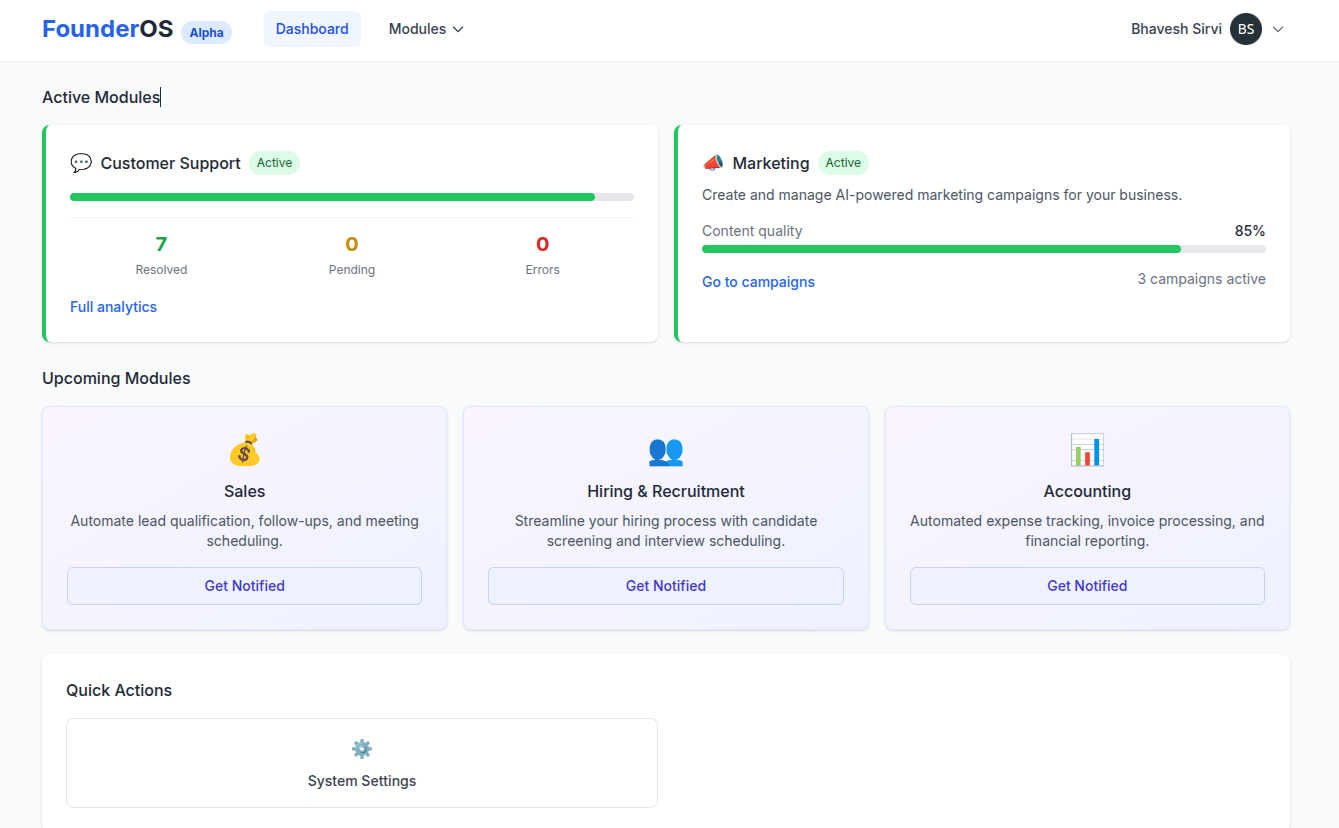
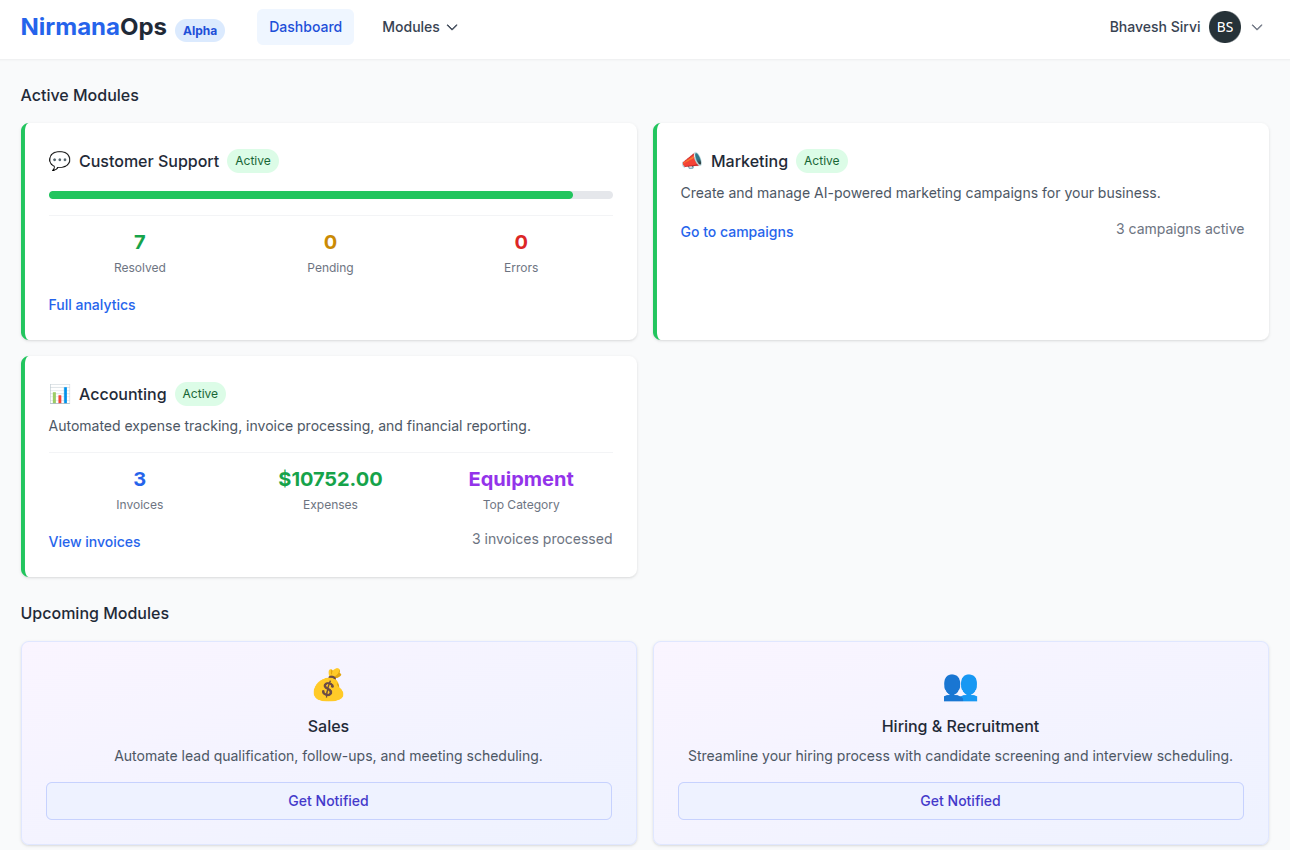
Changed the name to NirmanaOS

diff --git a/index.html b/index.html
@@ -3,7 +3,7 @@
 <head>
     <meta charset="UTF-8">
     <meta name="viewport" content="width=device-width, initial-scale=1.0">
-    <title>FounderOS</title>
+    <title>NirmanaOps</title>
     <script src="https://cdn.tailwindcss.com"></script>
     <link href="https://cdnjs.cloudflare.com/ajax/libs/font-awesome/6.0.0-beta3/css/all.min.css" rel="stylesheet">
     <style>
@@ -78,7 +78,7 @@
         <div class="max-w-7xl mx-auto px-4 sm:px-6 lg:px-8">
             <div class="flex justify-between h-16">
                 <div class="flex items-center space-x-4">
-                    <div class="text-2xl font-bold text-blue-600">FounderOS</div>
+                    <div class="text-2xl font-bold text-blue-600">NirmanaOps</div>
                     <span class="bg-blue-100 text-blue-800 px-2 py-1 rounded-md text-sm">Alpha</span>
                 </div>
                 <div class="hidden md:flex items-center space-x-8">
@@ -107,19 +107,19 @@
         </span>
         </h1>
         <p class="mt-6 text-xl text-white opacity-90 max-w-3xl mx-auto font-normal">
-        FounderOS provides a complete operations solution for your business, handling everything from customer inquiries to sales follow-ups, with implementation in under 30 minutes.
+        NirmanaOps provides a complete operations solution for your business, handling everything from customer inquiries to sales follow-ups, with implementation in under 30 minutes.
         </p>
         <div class="mt-16">
         <img src="image2.png" alt="Operations Platform Dashboard" class="rounded-lg shadow-2xl mx-auto"/>
         </div>
     </div>
     </div>
-    <!-- What is FounderOS Section -->
+    <!-- What is NirmanaOps Section -->
     <div class="bg-gray-50 py-20">
         <div class="max-w-7xl mx-auto px-4 sm:px-6 lg:px-8 text-center">
-            <h2 class="text-3xl font-semibold text-gray-900 mb-6">What is FounderOS?</h2>
+            <h2 class="text-3xl font-semibold text-gray-900 mb-6">What is NirmanaOps?</h2>
             <p class="text-base text-gray-700 max-w-3xl mx-auto">
-                Consider FounderOS as the operations team you wish you could afford. We handle your support tickets, follow up with leads, nurture customers, and manage your CRM — without you needing to hire a single person or become a tools expert. It functions as an entire operations department that works 24/7, never takes vacations, and costs a fraction of hiring.
+                Consider NirmanaOps as the operations team you wish you could afford. We handle your support tickets, follow up with leads, nurture customers, and manage your CRM — without you needing to hire a single person or become a tools expert. It functions as an entire operations department that works 24/7, never takes vacations, and costs a fraction of hiring.
             </p>
         </div>
     </div>
@@ -141,6 +141,22 @@
                     </div>
                     <p class="text-base text-gray-600 mb-4">
                         Handle customer inquiries efficiently with automated responses, ticket tracking, and seamless escalation processes.
+                    </p>
+                    <div class="flex items-center text-sm text-green-600">
+                        <i class="fas fa-check-circle mr-1" style="width: 18px; height: 18px;"></i>
+                        <span>Available Now</span>
+                    </div>
+                </div>
+                <!-- Accounting Module -->
+                <div class="bg-white p-6 rounded-lg shadow-md border border-gray-100">
+                    <div class="flex items-center mb-4">
+                        <div class="mr-3 text-gray-700">
+                            <i class="fas fa-chart-bar text-2xl" style="width: 24px; height: 24px;"></i>
+                        </div>
+                        <h3 class="text-xl font-medium">Accounting</h3>
+                    </div>
+                    <p class="text-base text-gray-600 mb-4">
+                        Automated expense tracking, invoice processing, and financial reporting for your business.
                     </p>
                     <div class="flex items-center text-sm text-green-600">
                         <i class="fas fa-check-circle mr-1" style="width: 18px; height: 18px;"></i>
@@ -192,23 +208,6 @@
                     </div>
                     <p class="text-base text-gray-600 mb-4">
                         Streamline your hiring process with candidate screening and interview scheduling automation.
-                    </p>
-                    <div class="flex items-center text-sm text-blue-600">
-                        <i class="fas fa-clock mr-1" style="width: 18px; height: 18px;"></i>
-                        <span>Coming Soon</span>
-                    </div>
-                </div>
-                
-                <!-- Accounting Module -->
-                <div class="bg-white p-6 rounded-lg shadow-md border border-gray-100">
-                    <div class="flex items-center mb-4">
-                        <div class="mr-3 text-gray-700">
-                            <i class="fas fa-chart-bar text-2xl" style="width: 24px; height: 24px;"></i>
-                        </div>
-                        <h3 class="text-xl font-medium">Accounting</h3>
-                    </div>
-                    <p class="text-base text-gray-600 mb-4">
-                        Automated expense tracking, invoice processing, and financial reporting for your business.
                     </p>
                     <div class="flex items-center text-sm text-blue-600">
                         <i class="fas fa-clock mr-1" style="width: 18px; height: 18px;"></i>
@@ -273,7 +272,7 @@
             <div class="flex flex-col items-center mb-16">
                 <div class="md:w-1/2 md:pr-8 mb-8 md:mb-0">
                     <p class="text-base text-gray-700 mb-8">
-                        We don't just give you tools, we give you results. FounderOS is pre-configured, pre-integrated, and ready to handle real customers from day one.
+                        We don't just give you tools, we give you results. NirmanaOps is pre-configured, pre-integrated, and ready to handle real customers from day one.
                     </p>
                     <div class="grid grid-cols-1 md:grid-cols-2 gap-4">
                         <div class="flex items-start">
@@ -335,7 +334,7 @@
                     </button>
                     <div class="mt-3 hidden" id="faq-1">
                         <p class="text-base text-gray-600">
-                            Not at all. Traditional solutions solve single problems. FounderOS is your entire operations department , handling everything from customer inquiries to sales follow-ups to onboarding workflows. It functions like a team of specialists who work 24/7, never get tired, and always follow your established protocols.
+                            Not at all. Traditional solutions solve single problems. NirmanaOps is your entire operations department , handling everything from customer inquiries to sales follow-ups to onboarding workflows. It functions like a team of specialists who work 24/7, never get tired, and always follow your established protocols.
                         </p>
                     </div>
                 </div>
@@ -395,12 +394,12 @@
                 <!-- FAQ Item 6 -->
                 <div class="border-b border-gray-200 pb-6">
                     <button class="flex justify-between items-center w-full text-left" onclick="toggleFAQ(6)">
-                        <span class="text-lg font-medium">Can FounderOS handle more than just customer support?</span>
+                        <span class="text-lg font-medium">Can NirmanaOps handle more than just customer support?</span>
                         <i class="fas fa-chevron-down text-blue-500" id="icon-6" style="width: 18px; height: 18px;"></i>
                     </button>
                     <div class="mt-3 hidden" id="faq-6">
                         <p class="text-base text-gray-600">
-                            Absolutely. We typically begin with support because it's the most immediate pain point, but our platform is designed to handle your entire customer journey. Sales follow-ups, onboarding workflows, renewal campaigns , all are integrated within the same system, with specialized automation for each function. Consider it your comprehensive operations ecosystem, not merely a support tool.
+                            Absolutely. We typically begin with support because it's the most immediate pain point, but our platform is designed to handle your entire customer journey. Sales follow-ups, onboarding workflows, renewal campaigns, all are integrated within the same system, with specialized automation for each function. Consider it your comprehensive operations ecosystem, not merely a support tool.
                         </p>
                     </div>
                 </div>
@@ -460,7 +459,7 @@
                         </div>
                     </div>
                     
-                    <input type="hidden" name="_subject" value="New FounderOS Early Access Request">
+                    <input type="hidden" name="_subject" value="New NirmanaOps Early Access Request">
                 </form>
             </div>
         </div>
@@ -472,14 +471,14 @@
             <div class="md:flex md:items-center md:justify-between">
                 <div class="mb-8 md:mb-0">
                     <div class="flex items-center">
-                        <div class="text-2xl font-semibold text-white">FounderOS</div>
+                        <div class="text-2xl font-semibold text-white">NirmanaOps</div>
                         <span class="ml-2 bg-blue-700 text-xs text-white px-2 py-1 rounded-md">Alpha</span>
                     </div>
                     <p class="text-gray-400 mt-2 text-base">Operations Infrastructure for SMEs</p>
                 </div>
             </div>
             <div class="mt-8 border-t border-gray-800 pt-8 md:flex md:items-center md:justify-between">
-                <p class="text-gray-400 text-sm">&copy; 2025 FounderOS. All rights reserved.</p>
+                <p class="text-gray-400 text-sm">&copy; 2025 NirmanaOps. All rights reserved.</p>
                 <div class="flex space-x-6 mt-4 md:mt-0">
                     <a href="https://www.linkedin.com/in/bhavesh-sirvi-6045281b7/" target="_blank" rel="noopener noreferrer" class="text-gray-400 hover:text-white">
                         <i class="fab fa-linkedin" style="width: 24px; height: 24px;"></i>
@@ -521,7 +520,7 @@
                     submitButton.disabled = true;
                     
                     const formData = new FormData(form);
-                    
+
                     fetch('https://formspree.io/f/mnndzdel', {
                         method: 'POST',
                         body: formData,
@@ -624,4 +623,4 @@
         });
     </script>
 </body>
-</html> 
+</html>
